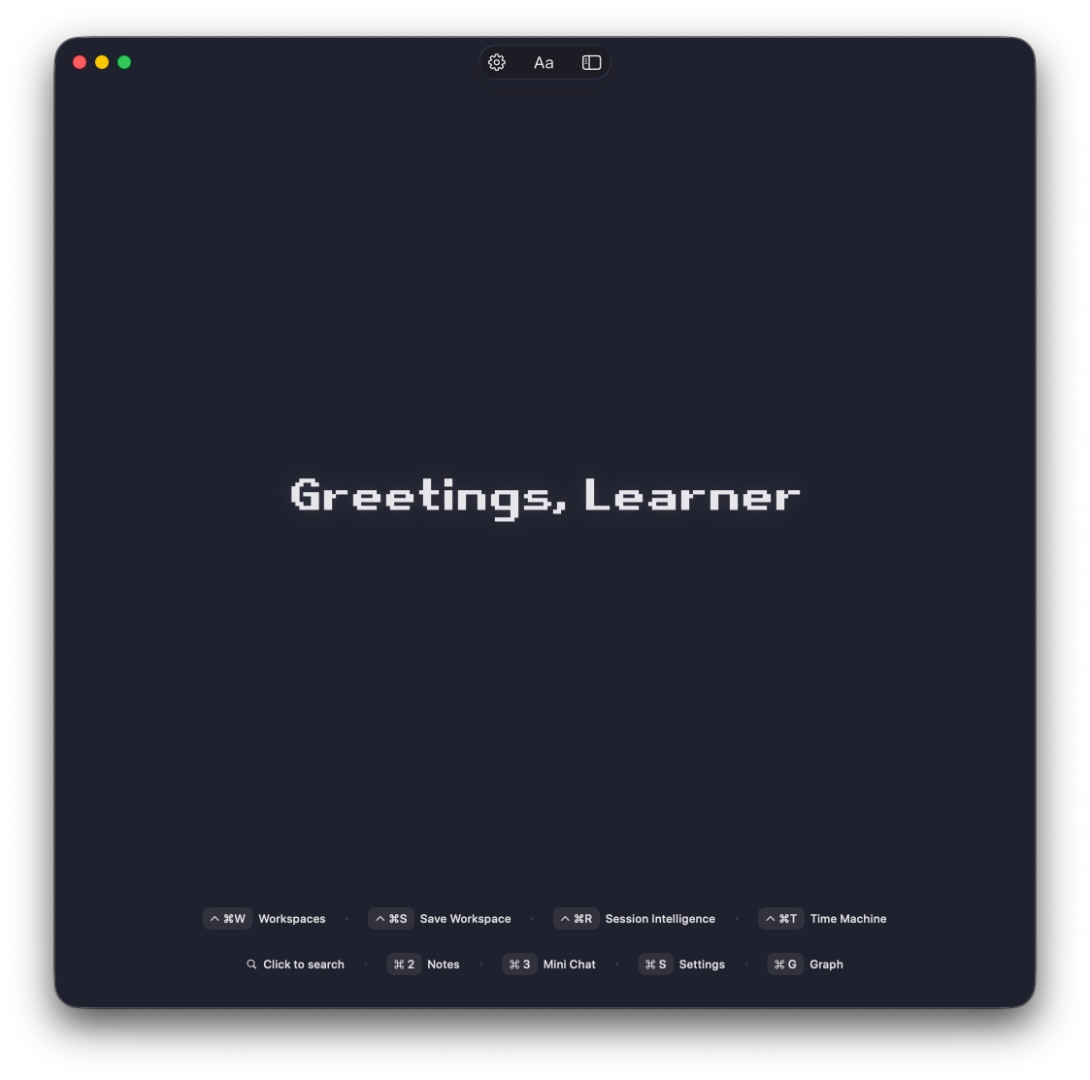
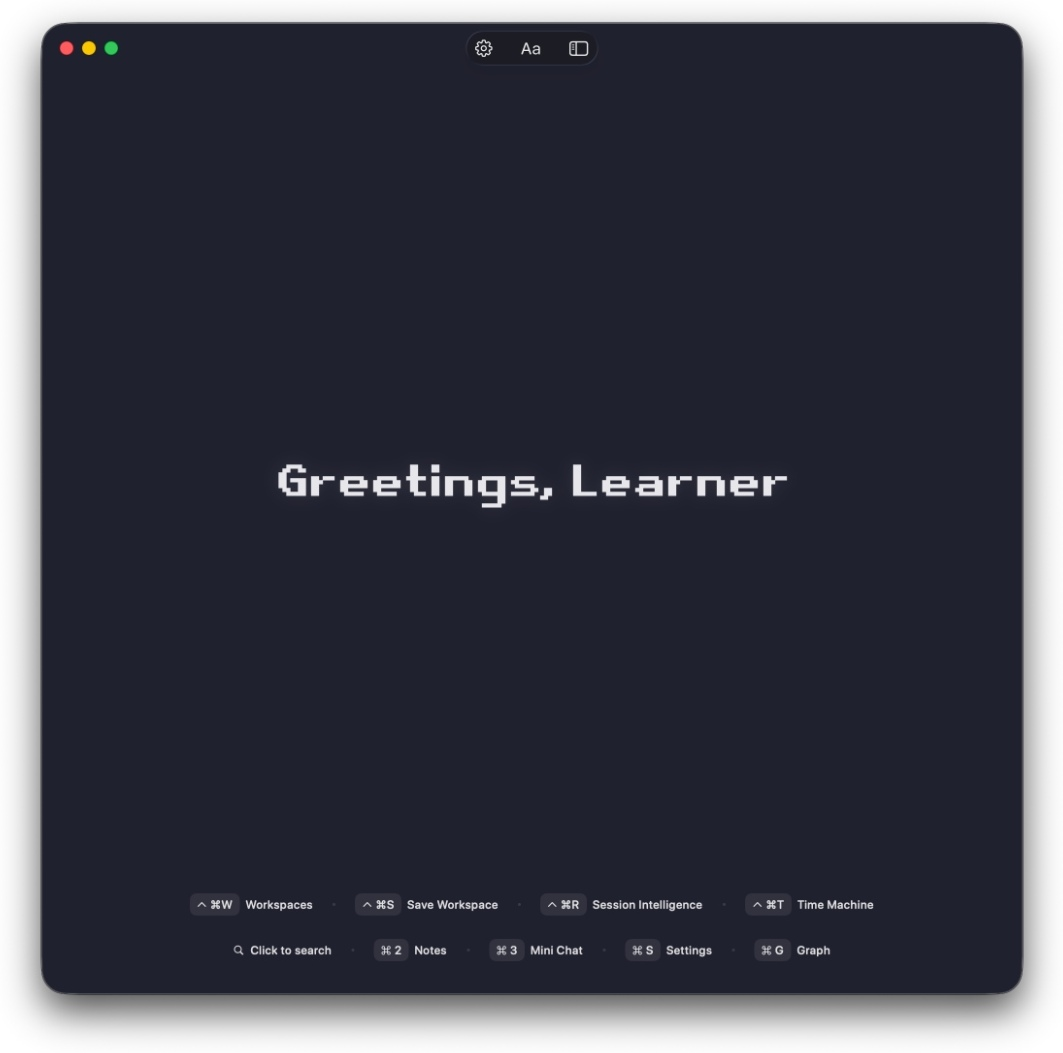
Crop showcase and redact personal details

Changed region(s): [[0.0, 0.0, 0.9934, 1.0], [0.2484, 0.4255, 0.7451, 0.4862]]

diff --git a/README.md b/README.md
@@ -6,7 +6,7 @@ It is a native macOS project with a Swift/AppKit/SwiftUI shell, Rust cores, a Ty
 
 ## What it looks like
 
-The first three images are raw development captures I preserved from the working app. They show real work in progress, including rough edges and experimental surfaces; they are not release screenshots or proof that every visible control belongs to the current Free V1 target.
+The first three images are isolated crops of development captures I preserved from the working app. They show real work in progress, including rough edges and experimental surfaces; they are not release screenshots or proof that every visible control belongs to the current Free V1 target.
 
 ### Notes and theme-performance investigation
 
@@ -24,12 +24,13 @@ The first three images are raw development captures I preserved from the working
 
 These captures came from the companion site repository. I keep them as an honest visual record of the product's development rather than presenting every surface as current.
 
-| Landing and local context | Research document view |
+| Landing surfaces | Context and research |
 | --- | --- |
-| ![Dark Epistemos greeting screen](docs/showcase/landing-greeting-dark.jpg) | ![Dark Epistemos research report](docs/showcase/research-report-dark.jpg) |
-| ![Epistemos contextual note search](docs/showcase/context-search-light.jpg) | ![Autoresearch experiment progress plot](docs/showcase/autoresearch-progress.jpg) |
+| ![Light Epistemos greeting screen](docs/showcase/landing-greeting-light.jpg) | ![Dark Epistemos greeting screen](docs/showcase/landing-greeting-dark.jpg) |
+| ![Epistemos contextual note search with the owner's name redacted](docs/showcase/context-search-light.jpg) | ![Dark Epistemos research report with the owner's name redacted](docs/showcase/research-report-dark.jpg) |
+| ![Autoresearch experiment progress plot](docs/showcase/autoresearch-progress.jpg) | |
 
-The older gray graph screenshots are intentionally omitted because they do not represent the current graph design. I will add the red/yellow pixel-art graph when I have the genuine current capture.
+The personal white-chat and 2025/2026-plan captures are intentionally excluded. The older gray graph screenshots are also omitted because they do not represent the current graph design. I will add the red/yellow pixel-art graph when I have the genuine current capture.
 
 ## What I am building
 

diff --git a/docs/showcase/INTENT_LEDGER.md b/docs/showcase/INTENT_LEDGER.md
@@ -28,4 +28,11 @@
 - Preservation rule: retain byte-identical copies of all three originals. Never replace or delete an original when creating a presentation crop.
 - Presentation derivatives: the owner approved keeping the focused notes crop after clarifying that the concern was fabricated UI, not cropping. Label any derivative separately from the raw original and never present it as additional evidence.
 - Selection rule: continue reviewing genuine screenshots, but keep obsolete graph visuals, June, agent, and chat out of the default public showcase unless the owner explicitly reverses that boundary.
+
+## 2026-08-17 cropped and redacted gallery update
+
+- Owner steer: use the isolated theme-audit crop at the top; include the HTML workspace, note-run record, both light and dark greeting surfaces, contextual retrieval, research-note view, and autoresearch record.
+- Privacy boundary: exclude the white personal-chat image and the 2025/2026-plan chat. Redact the owner's name from both the research-note capture and the contextual-search result snippet.
+- Presentation boundary: every selected asset must be an isolated crop rather than a full-desktop screenshot. Preserve the source files separately; update only the gallery copies.
+- Final selected set: eight images. No obsolete graph, June, or unrelated chat capture is included.
 - Privacy rule: screenshots containing personal college, financial-aid, or account details may be preserved in the local review archive but must not be published by default.
